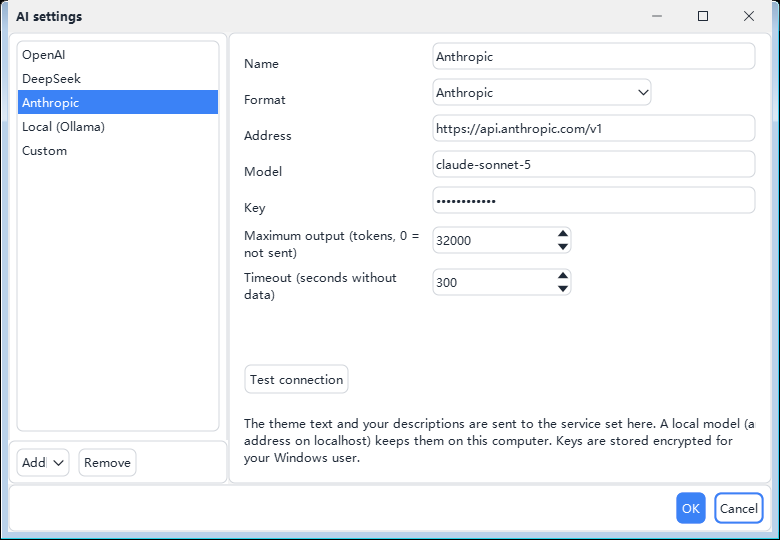
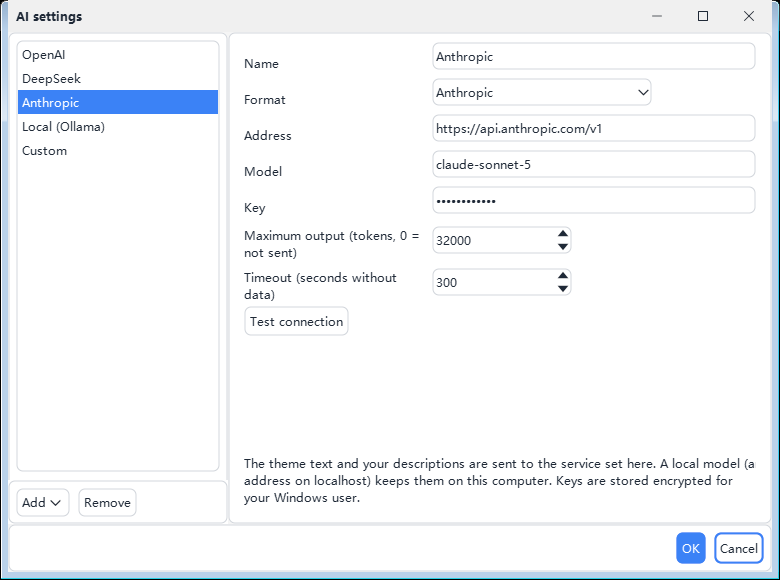
docs(themebuilder): the acceptance screenshots taken again after the last fixes

diff --git a/docs/superpowers/plans/2026-10-01-themebuilder-acceptance-shots/index.md b/docs/superpowers/plans/2026-10-01-themebuilder-acceptance-shots/index.md
@@ -10,7 +10,7 @@ AI 的两张图用**假后端**：测试里的脚本模型（`tests/tbaitesthelp
 |---|---|---|---|
 | `p2-seeds-win32.png` | 30、33 | 主窗口，打开 `themes/builtin/win11.tycss`，侧栏在「种子」页：亮 / 暗两列，`--surface`、`--on-surface` 写「inherited」，圆角两列写「from :root」，色块与右边预览（win11 亮色）一致 | `OpenFile` 打开文件，侧栏 `ActivateWindow(SeedsWin)`；PrintWindow |
 | `p2-export-win32.png` | 43、44 | 导出对话框，文档是 `themes/green.tycss`：文件列表里有 `assets/background.jpg`，zip 选项灰掉并写了原因，默认导出成文件夹 | `BuildExportForm` 建好后非模态 `Show`，截完关掉，什么都没导出；PrintWindow |
-| `p3-ai-settings-win32.png` | 54 | AI 设置：左边五种预置都加上了，选中 Anthropic（模型 `claude-sonnet-5`、最大输出 32000），密钥框是假密钥（显示为星号）；底下有「会发给这里设置的服务」与密钥怎么存的说明 | `BuildAiSettingsForm` 后 `AddPreset` 五次、`SelectProfile`，密钥填 `sk-test-0000`；非模态 `Show`，不点确定、什么都不保存；PrintWindow |
-| `p3-ai-settings-ollama-win32.png` | 54 | 同一窗口选中「Local (Ollama)」：地址是本机，字段下出现 Ollama 上下文长度的提示（提示的第三行被下面的「Test connection」挡住，是工具本身的排版，不是截图的问题） | 同上一张，`SelectProfile` 换到本机预置；PrintWindow |
-| `p3-ai-page-win32.png` | 57 | 主窗口，极简模板，侧栏在「AI」页：描述「Warm colours, and a bit more rounding.」，输出框里是模型的回答（**假后端**：测试用的脚本模型分 12 段流出一段固定回答，不连任何服务） | 服务是指向 127.0.0.1 的自定义预置，会话的后端换成 `tests/tbaitesthelp` 的 `TScriptedBackend`，`GenerateClick`；PrintWindow |
-| `p3-compare-win32.png` | 57、69 | 对比窗口：左「Now」是编辑器的极简模板，右是 AI 的版本（暖色、圆角 10px），改动行左红右绿、两边对齐，顶上一句「4 changes. Problems left: 0.」（**假后端**的回答）。注意改动行上的字是很浅的灰白色，几乎看不清——工具本身的绘制，不是截图的问题 | 生成结束后主窗口经 `ShowModalForTest` 交来的对比窗口，非模态 `Show` 截图后按「放弃」的结果关掉；PrintWindow |
+| `p3-ai-settings-win32.png` | 54 | AI 设置：左边五种预置都加上了，选中 Anthropic（模型 `claude-sonnet-5`、最大输出 32000），密钥框是假密钥（显示为星号）；底下有「会发给这里设置的服务」与密钥怎么存的说明；左下角「Add」是整个一块的菜单按钮，字完整 | `BuildAiSettingsForm` 后 `AddPreset` 五次、`SelectProfile`，密钥填 `sk-test-0000`；非模态 `Show`，不点确定、什么都不保存；PrintWindow |
+| `p3-ai-settings-ollama-win32.png` | 54 | 同一窗口选中「Local (Ollama)」：地址是本机，字段下出现 Ollama 上下文长度的提示，三行完整，「Test connection」排在它下面、不重叠 | 同上一张，`SelectProfile` 换到本机预置；PrintWindow |
+| `p3-ai-page-win32.png` | 57 | 主窗口，极简模板，侧栏在「AI」页：描述「Warm colours, and a bit more rounding.」，输出框里是模型的回答（**假后端**：测试用的脚本模型分 12 段流出一段固定回答，不连任何服务），状态行下面是「This conversation: 1 request.」（单数） | 服务是指向 127.0.0.1 的自定义预置，会话的后端换成 `tests/tbaitesthelp` 的 `TScriptedBackend`，`GenerateClick`；PrintWindow |
+| `p3-compare-win32.png` | 57、69 | 对比窗口：左「Now」是编辑器的极简模板，右是 AI 的版本（暖色、圆角 10px），改动行左红右绿、两边对齐，顶上一句「4 changes. Problems left: 0.」（**假后端**的回答）。改动行上的字用编辑器正文的颜色，红、绿底上都清楚；左下「Try it in the preview」完整不截断 | 生成结束后主窗口经 `ShowModalForTest` 交来的对比窗口，非模态 `Show` 截图后按「放弃」的结果关掉；PrintWindow |
